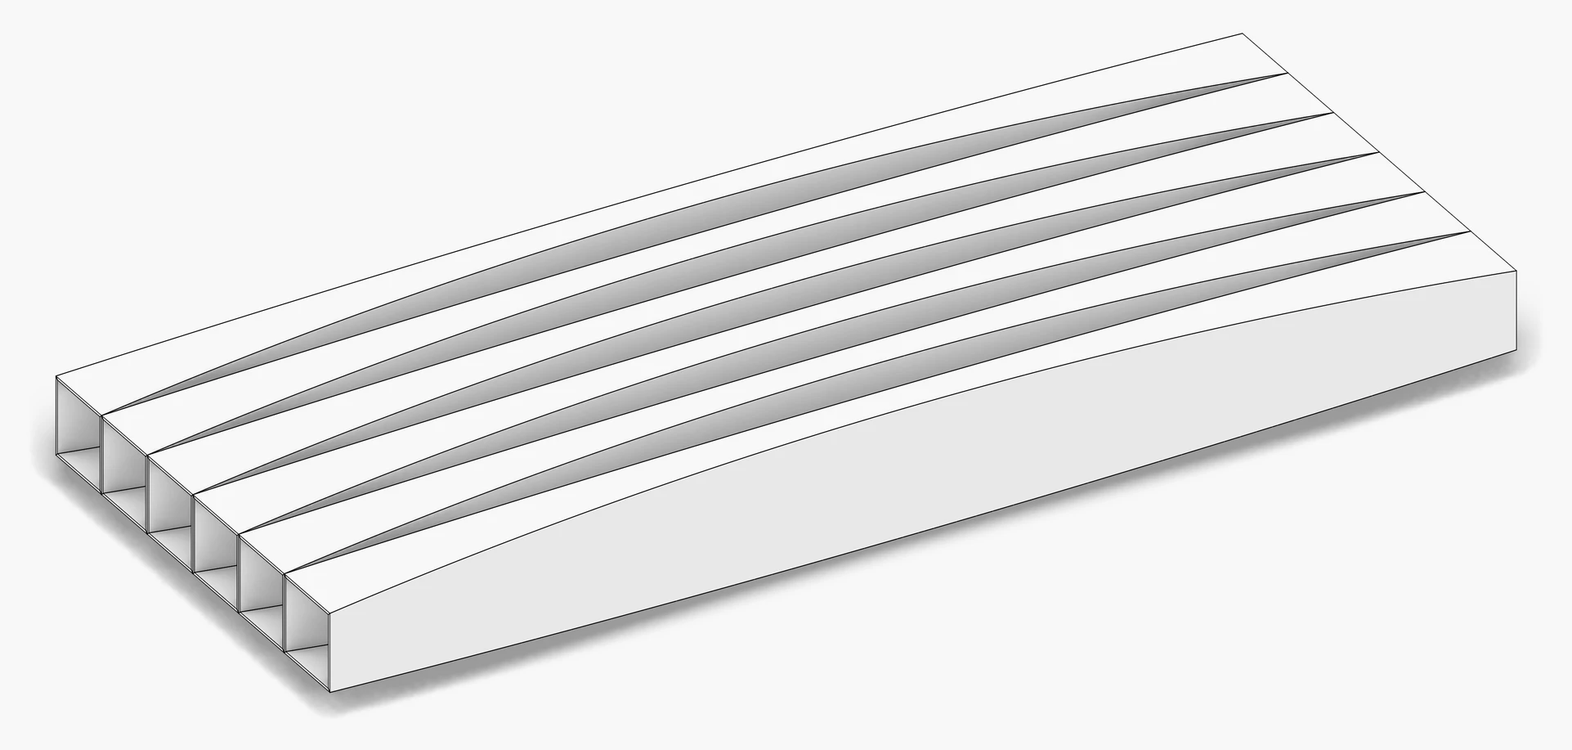
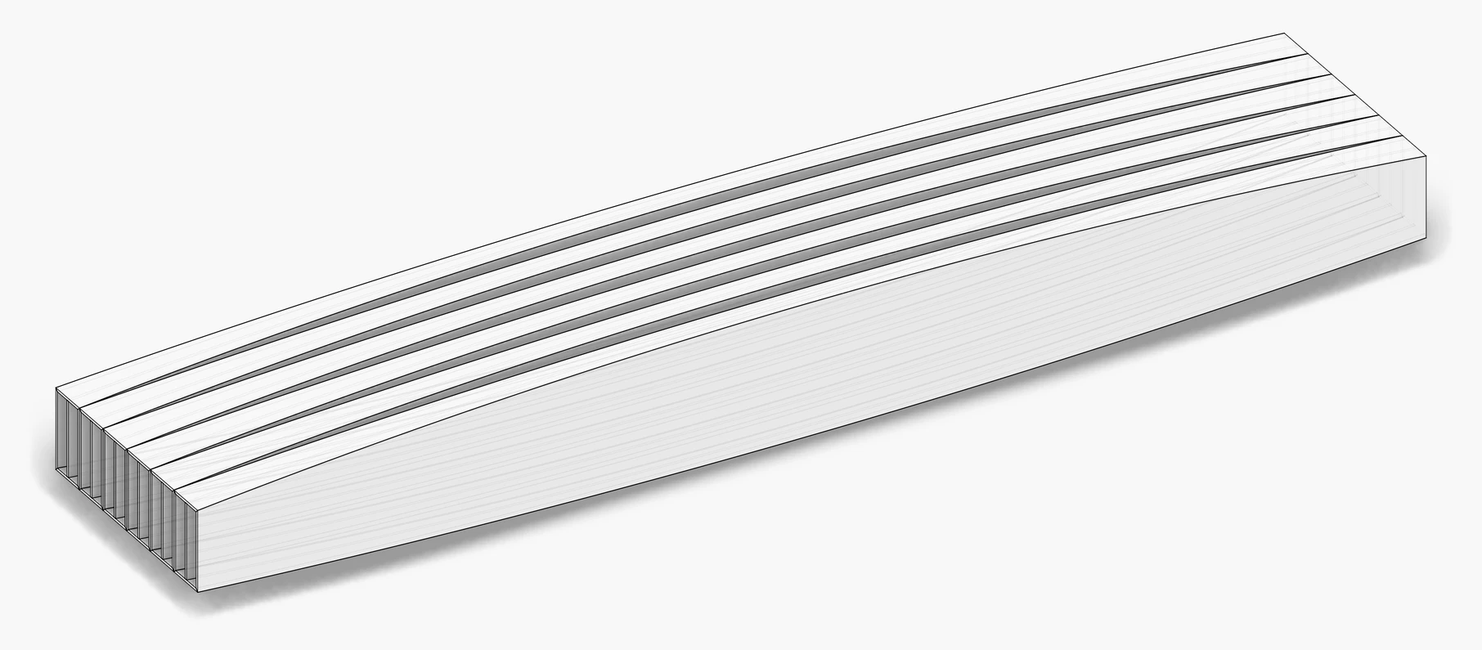
wood: curved-folded beam twice as high as wide at the supports with webs inside, the curved contact detection finding a face lying wholly inside another (a web's edge on its plate); picture at 0.95 opacity; the templates page with two folding categories, Folding flat and Folding curved

Changed region(s): [[0.0, 0.0604, 0.989, 0.966], [0.8653, 0.0604, 0.8962, 0.0906]]

diff --git a/src/templates/curved_folding/curved_folded_beam.h b/src/templates/curved_folding/curved_folded_beam.h
@@ -5,31 +5,33 @@
 using namespace session_cpp;
 using namespace wood_session;
 
-/// A closed curved-folded beam of four plates: a box spanning along x, square at the supports, its four plates each a cylinder bent along the span with its rulings straight across. The
-/// two pairs fold opposite ways: the top and bottom plates bulge outward by rise toward mid-span, the side plates sag inward by sag, so
-/// the beam deepens and narrows to mid-span. The corners are the curved creases where a top or bottom plate meets a side plate, and
-/// every plate is mitred there: its inner face ends where it meets its neighbour's, both a thickness inside, and the mitre is the
-/// ruled face between the crease and that inner crease, one face shared by the two plates. The ends are cut square at the supports. A
-/// row of beams side by side along y, touching at the supports, leaves lens-shaped gaps between them, widest at mid-span.
+/// A closed curved-folded beam: a box spanning along x, at the supports twice as high as wide, its four plates each a cylinder bent
+/// along the span with its rulings straight across. The top and bottom plates bulge outward by rise toward mid-span, the side plates
+/// sag inward by sag, so the beam deepens and narrows to mid-span. The corners are the curved creases, every plate mitred there: its
+/// inner face ends where it meets its neighbour's, both a thickness inside, the mitre the ruled face between the crease and that inner
+/// crease, shared by the two plates. Flat vertical webs inside divide the section, each between the inner faces of the top and bottom
+/// plates. The ends are cut square at the supports; beams side by side touch there.
 ///
-/// Fields: the span, the size, the rise, the sag, the thickness, the count and the sampling; the plates are in the session.
+/// Fields: the span, the width, the rise, the sag, the thickness, the webs, the count and the sampling; the plates are in the session.
 class CurvedFoldedBeam : public WoodSession {
 public:
     const double span; // mm, along x between the supports.
-    const double size; // mm, half the side of the square section at the supports.
+    const double width; // mm, the section's width at the supports, its height twice that.
     const double rise; // mm, how far the top and bottom plates bulge outward at mid-span.
     const double sag; // mm, how far the side plates sag inward at mid-span.
-    const double thickness; // mm, every plate.
-    const size_t count; // Beams side by side along y, 2 size apart.
+    const double thickness; // mm, every plate and web.
+    const size_t webs; // Flat webs inside every beam, evenly across its width.
+    const size_t count; // Beams side by side along y, width apart.
     const size_t samples; // Rulings each plate is interpolated through.
 
     /// count curved-folded beams as the session named name.
     CurvedFoldedBeam(
         double span = 12000.0,
-        double size = 400.0,
+        double width = 400.0,
         double rise = 250.0,
-        double sag = 220.0,
+        double sag = 80.0,
         double thickness = 27.0,
+        size_t webs = 1,
         size_t count = 6,
         const std::string& name = "curved_folded_beam",
         size_t samples = 48
@@ -54,71 +56,76 @@ private:
     std::array<std::vector<Point>, 2> compute_corner() const;
 
     /// Every beam's four plates, beam_<b>_<k> in the group beam_<b>: top, right, bottom and left, each between two corners, the corner
-    /// mirrored in the planes y 0 and z 0, and moved along y.
+    /// mirrored in the planes y 0 and z 0, and moved along y; then its webs, beam_<b>_<4 + w>.
     void add_beams(const std::array<std::vector<Point>, 2>& corner);
 };
 
-inline CurvedFoldedBeam::CurvedFoldedBeam(double span, double size, double rise, double sag, double thickness, size_t count, const std::string& name, size_t samples)
+inline CurvedFoldedBeam::CurvedFoldedBeam(double span, double width, double rise, double sag, double thickness, size_t webs, size_t count, const std::string& name, size_t samples)
     : WoodSession(name),
       span(span),
-      size(size),
+      width(width),
       rise(rise),
       sag(sag),
       thickness(thickness),
+      webs(webs),
       count(std::max<size_t>(count, 1)),
       samples(std::max<size_t>(samples, 4)) {
 
-    if (span <= 0.0 || size <= 0.0 || rise <= 0.0 || sag <= 0.0 || sag >= size - 2.0 * thickness || thickness <= 0.0)
-        throw std::invalid_argument("A curved-folded beam needs a span, a size, a rise, a sag well inside the size and a thickness");
+    // the outermost web, half a thickness wide, stands clear of the sides' inner faces where they sag the most
+    const double clear = 0.5 * width - sag - 1.5 * thickness;
+    const double outermost = std::abs(-0.5 * width + width / static_cast<double>(webs + 1));
+
+    if (span <= 0.0 || width <= 0.0 || rise <= 0.0 || sag <= 0.0 || thickness <= 0.0 || sag >= 0.5 * width - 2.0 * thickness || (webs > 0 && outermost >= clear))
+        throw std::invalid_argument("A curved-folded beam needs a span, a width, a rise, a sag and a thickness that leave its webs inside");
 
     // corner: the top right crease and the inner crease under it, the mitre between them
     const std::array<std::vector<Point>, 2> corner = compute_corner();
 
-    // beams: every beam's four plates between its four corners, each a cylinder with its rulings straight across
+    // beams: every beam's four plates between its four corners, each a cylinder with its rulings straight across, and its webs
     add_beams(corner);
 
-    // contacts: every two plates that share a face, the four mitres of every beam, found by the session's contact detection
+    // contacts: every two plates that share a face, found by the session's contact detection
     compute_face_contacts(0);
 }
 
 inline std::array<std::vector<Point>, 2> CurvedFoldedBeam::compute_corner() const {
 
-    // a profile along the span: a circular arc through size at the supports and size + change at mid-span, its value and slope at x
+    // a profile along the span: a circular arc through base at the supports and base + change at mid-span, its value and slope at x
     const double half = 0.5 * span;
-    const std::function<std::pair<double, double>(double, double)> profile = [&](double change, double x) {
+    const std::function<std::pair<double, double>(double, double, double)> profile = [&](double base, double change, double x) {
         const double radius = (half * half + change * change) / (2.0 * std::abs(change));
         const double root = std::sqrt(radius * radius - x * x);
         const double sign = change > 0.0 ? 1.0 : -1.0;
-        return std::make_pair(size + change - sign * radius + sign * root, -sign * x / root);
+        return std::make_pair(base + change - sign * radius + sign * root, -sign * x / root);
     };
 
     // the point a thickness inside a profile at the arc's parameter u: its x, and its distance from the axis
-    const std::function<std::pair<double, double>(double, double)> inside = [&](double change, double u) {
-        const std::pair<double, double> value = profile(change, u);
+    const std::function<std::pair<double, double>(double, double, double)> inside = [&](double base, double change, double u) {
+        const std::pair<double, double> value = profile(base, change, u);
         const double length = std::sqrt(1.0 + value.second * value.second);
         return std::make_pair(u + thickness * value.second / length, value.first - thickness / length);
     };
 
     // the inner profile's distance from the axis at x: the arc's parameter whose inner point lies at x, by bisection
-    const std::function<double(double, double)> inner = [&](double change, double x) {
+    const std::function<double(double, double, double)> inner = [&](double base, double change, double x) {
         double low = x - 2.0 * thickness;
         double high = x + 2.0 * thickness;
 
         for (int i = 0; i < 80; i++) {
             const double middle = 0.5 * (low + high);
-            (inside(change, middle).first < x ? low : high) = middle;
+            (inside(base, change, middle).first < x ? low : high) = middle;
         }
 
-        return inside(change, 0.5 * (low + high)).second;
+        return inside(base, change, 0.5 * (low + high)).second;
     };
 
-    // the crease at the top and right profiles' heights, the inner crease at their inner faces', at equal x
+    // the crease at the side's half width and the top's half height, the inner crease at their inner faces', at equal x
     std::array<std::vector<Point>, 2> corner;
 
     for (size_t k = 0; k <= samples; k++) {
         const double x = -half + span * static_cast<double>(k) / static_cast<double>(samples);
-        corner[0].push_back(Point(x, profile(-sag, x).first, profile(rise, x).first));
-        corner[1].push_back(Point(x, inner(-sag, x), inner(rise, x)));
+        corner[0].push_back(Point(x, profile(0.5 * width, -sag, x).first, profile(width, rise, x).first));
+        corner[1].push_back(Point(x, inner(0.5 * width, -sag, x), inner(width, rise, x)));
     }
 
     return corner;
@@ -132,7 +139,7 @@ inline void CurvedFoldedBeam::add_beams(const std::array<std::vector<Point>, 2>&
 
     for (size_t b = 0; b < count; b++) {
         const std::shared_ptr<TreeNode> group = add_group(fmt::format("beam_{}", b));
-        const double shift = 2.0 * size * static_cast<double>(b);
+        const double shift = width * static_cast<double>(b);
 
         for (size_t k = 0; k < 4; k++) {
             // outer_a, outer_b, inner_a, inner_b: the plate's two corners, the crease then the inner crease of each
@@ -153,6 +160,25 @@ inline void CurvedFoldedBeam::add_beams(const std::array<std::vector<Point>, 2>&
             // its development, the proof it is cut flat
             const Development development(curves[0], curves[1], samples);
             _distortion = std::max(_distortion, development.distortion);
+        }
+
+        // the webs: flat plates at even steps across the width, from the top plate's inner face down to the bottom plate's
+        for (size_t w = 0; w < webs; w++) {
+            const double y = shift - 0.5 * width + width * static_cast<double>(w + 1) / static_cast<double>(webs + 1);
+            std::array<NurbsCurve, 4> curves;
+
+            for (size_t e = 0; e < 4; e++) {
+                const double face = y + (e < 2 ? -0.5 : 0.5) * thickness;
+                const double side = e % 2 == 0 ? 1.0 : -1.0;
+                std::vector<Point> points;
+
+                for (const Point& point : corner[1])
+                    points.push_back(Point(point[0], face, side * point[2]));
+
+                curves[e] = NurbsCurve::create_interpolated(points, CurveNurbsKnotStyle::Uniform);
+            }
+
+            add(std::make_shared<PlateCurved>(curves[0], curves[1], curves[2], curves[3], fmt::format("beam_{}_{}", b, 4 + w)), group);
         }
     }
 }

diff --git a/src/joinery_solver/wood_algorithms/wood_contact_detection.cpp b/src/joinery_solver/wood_algorithms/wood_contact_detection.cpp
@@ -7,6 +7,7 @@
 #include "wood_element_geometry.h"
 #include "wood_element_plate_curved.h"
 #include "../src/clipper2/clipper.h"
+#include "closest.h"
 using namespace session_cpp;
 using namespace wood_session;
 
@@ -67,10 +68,53 @@ std::vector<bool> boundary_on(const std::vector<Point>& points, const std::vecto
     return on;
 }
 
+/// A face as the strip of triangles between its two sampled boundaries.
+Mesh face_strip(const std::array<std::vector<Point>, 2>& face) {
+
+    const size_t n = face[0].size();
+    std::vector<Point> vertices = face[0];
+    vertices.insert(vertices.end(), face[1].begin(), face[1].end());
+    std::vector<std::vector<size_t>> triangles;
+
+    for (size_t k = 0; k + 1 < n; k++) {
+        triangles.push_back({k, k + 1, n + k + 1});
+        triangles.push_back({k, n + k + 1, n + k});
+    }
+
+    return Mesh::from_vertices_and_faces(vertices, triangles);
+}
+
+/// Whether every point of a face's two boundaries lies within tolerance of another face's strip: a face lying inside the other, as a
+/// web's edge on the plate it stands on.
+bool face_within(const std::array<std::vector<Point>, 2>& face, const std::array<std::vector<Point>, 2>& other, double tolerance) {
+
+    if (face[0].size() < 3 || other[0].size() < 3)
+        return false;
+
+    // cheap first: the face inside the other's box, grown by the tolerance
+    std::vector<Point> corners = other[0];
+    corners.insert(corners.end(), other[1].begin(), other[1].end());
+    const AABB box = AABB::from_points(corners, tolerance);
+
+    for (const std::vector<Point>& boundary : face)
+        for (const Point& point : boundary)
+            if (std::abs(point[0] - box.cx) > box.hx || std::abs(point[1] - box.cy) > box.hy || std::abs(point[2] - box.cz) > box.hz)
+                return false;
+
+    const Mesh strip = face_strip(other);
+
+    for (const std::vector<Point>& boundary : face)
+        for (const Point& point : boundary)
+            if (std::get<2>(Closest::mesh_point(strip, point)) > tolerance)
+                return false;
+
+    return true;
+}
+
 /// The faces two curved plates share: where both boundaries of a face of one lie on the two boundaries of a face of the other, in
 /// either order, along the longest run of samples, at least four and longer than ten tolerances, the whole face or the part of it
-/// one neighbour shares; the contact's polygon is that run of the first boundary and the second walked back. Outer and inner faces
-/// are tops, the rest sides.
+/// one neighbour shares; the contact's polygon is that run of the first boundary and the second walked back. A face lying wholly
+/// inside a face of the other is shared too, its whole outline the polygon. Outer and inner faces are tops, the rest sides.
 std::vector<InteractionContactFace> curved_contacts(const PlateCurved& a, const PlateCurved& b, double tolerance) {
 
     const std::array<std::array<std::vector<Point>, 2>, 6> faces_a = curved_faces(a, 64);
@@ -78,7 +122,9 @@ std::vector<InteractionContactFace> curved_contacts(const PlateCurved& a, const 
     std::vector<InteractionContactFace> contacts;
 
     for (size_t i = 0; i < 6; i++)
-        for (size_t j = 0; j < 6; j++)
+        for (size_t j = 0; j < 6; j++) {
+            const size_t found = contacts.size();
+
             for (size_t order = 0; order < 2; order++) {
                 // the samples where both boundaries lie on the other face's, and the longest run of them
                 const std::vector<bool> first = boundary_on(faces_a[i][0], faces_b[j][order], tolerance);
@@ -117,6 +163,25 @@ std::vector<InteractionContactFace> curved_contacts(const PlateCurved& a, const 
                 contacts.emplace_back(static_cast<int>(i), static_cast<int>(j), type, Polyline(polygon));
                 break;
             }
+
+            // a face lying wholly inside the other's: a web's edge on its plate's inner face, either way round
+            if (contacts.size() > found)
+                continue;
+
+            const bool a_within = face_within(faces_a[i], faces_b[j], tolerance);
+
+            if (!a_within && !face_within(faces_b[j], faces_a[i], tolerance))
+                continue;
+
+            const std::array<std::vector<Point>, 2>& face = a_within ? faces_a[i] : faces_b[j];
+            std::vector<Point> polygon = face[0];
+            polygon.insert(polygon.end(), face[1].rbegin(), face[1].rend());
+            polygon.push_back(polygon.front());
+            const bool top_a = i < 2;
+            const bool top_b = j < 2;
+            const ContactType type = top_a && top_b ? ContactType::top_top : top_a || top_b ? ContactType::side_top : ContactType::side_side;
+            contacts.emplace_back(static_cast<int>(i), static_cast<int>(j), type, Polyline(polygon));
+        }
 
     return contacts;
 }

diff --git a/examples/templates_curved_folding_31_curved_folded_beam.cpp b/examples/templates_curved_folding_31_curved_folded_beam.cpp
@@ -4,8 +4,8 @@
 using namespace session_cpp;
 using namespace wood_session;
 
-/// Six closed curved-folded beams side by side: boxes of four cylinder plates spanning 12 m, the top and bottom bulging out and the
-/// sides sagging in toward mid-span.
+/// Six closed curved-folded beams side by side: boxes 400 wide and 800 high at the supports, the top and bottom bulging out, the
+/// sides sagging in, a web inside.
 int main() {
 
     CurvedFoldedBeam beams;
@@ -24,7 +24,7 @@ int main() {
 
 /*
 |||||||| DESCRIPTION ||||||||
-Step 31 of the curved folding templates: a closed curved-folded beam of four plates. A box spans 12 m along x, 800 mm square at the supports; each of its four plates is a cylinder bent along the span with its rulings straight across, and the two pairs fold opposite ways: the top and bottom plates bulge 250 mm outward toward mid-span, the sides sag 220 mm inward, so the beam is 1300 mm deep and 360 mm wide at mid-span. The corners are the curved creases; every plate is mitred there, its inner face ending where it meets its neighbour's a thickness inside both, the mitre the ruled face between the crease and that inner crease. The ends are cut square at the supports. Six beams 27 mm thick lie side by side, touching at the supports, lens-shaped gaps opening between them toward mid-span; the session's contact detection finds the four mitres of every beam. Groups: beam_<b> (beam_<b>_<k>).
+Step 31 of the curved folding templates: a closed curved-folded beam. A box spans 12 m along x, 400 mm wide and 800 mm high at the supports; its four plates are cylinders bent along the span with their rulings straight across: the top and bottom bulge 250 mm outward toward mid-span, the sides sag 80 mm inward, so the beam is 1300 mm deep and 240 mm wide at mid-span. Every corner is a curved crease, the two plates mitred on the ruled face between the crease and the inner crease. A flat web inside, between the inner faces of the top and bottom, divides the section. Six beams of 27 mm plates side by side; the contacts are the four mitres and the web's two edges of every beam. Groups: beam_<b>.
 
 |||||||| DIRECTORY ||||||||
 cd wood_research/wood

diff --git a/docs/templates.md b/docs/templates.md
@@ -7,24 +7,9 @@ Generators under `src/templates/`, one folder per family (`shells/`, `folding/`,
 | Template | Header | Example | Elements |
 | --- | --- | --- | --- |
 | [Translation shell](@ref templates_shells) | `shells/translation_shell.h` | `templates_shells_1_translation_shell` | `TranslationShell`: one mitered, chamfered plate per swept quad |
-| [Reflex fold](@ref templates_folding) | `folding/reflex_fold.h` | `templates_folding_1_reflex_fold` | one plate per fold |
+| [Folding flat](@ref templates_folding) | `folding/*.h` | `templates_folding_*` | planar plates folded along straight creases: reflex, diamond, prismatic, counter-running, conical, single, diagonal and triangle folds, folded frames and truncated pyramids, every plate offset exactly with flush mitres |
+| [Folding curved](@ref templates_curved_folding) | `curved_folding/*.h` | `templates_curved_folding_*` | curved plates bent from flat panels and folded along planar curved creases: reflection folds, cylinder vaults, curved-crease unfoldings and the curved-folded beam, every plate an exact developable `PlateCurved` |
 | [Chevron](@ref templates_chevron) | `chevron/chevron.h` | `templates_chevron_1_chevron` | four plates per face of an Annen surface |
-| [Diamond mesh](@ref templates_folding) | `folding/diamond_mesh.h` | `templates_folding_2_diamond_mesh` | one plate per triangle of a rhombus pattern |
-| [Singly folded plate](@ref templates_folding) | `folding/prismatic_fold.h` | `templates_folding_{3_prismatic_fold,4_folded_barrel,25_one_fold,26_three_folds}` | a fold profile carried straight over the span, one plate per fold, diaphragms under the folds and a flange folded on at each free edge; a zigzag, one and three folds, and a folded barrel approaching a cylindrical shell |
-| [Counter-running fold](@ref templates_folding) | `folding/counter_fold.h` | `templates_folding_{5_counter_fold,6_elevated_fold,27_counter_centre,..,32_deep_centre_valley}` | fold profiles at stations along the span, counter-running, raised or deepened, every warped strip folded into two planar triangles, ridge to ridge, ridge to valley or alternate |
-| [Conical fold](@ref templates_folding) | `folding/conical_fold.h` | `templates_folding_7_conical_fold` | a continuous fold profile with its upper edge cut by sloping planes, flank pentagons and cut triangles |
-| [Folded frame](@ref templates_folding) | `folding/folded_frame.h` | `templates_folding_{8_two_hinged_frame,9_three_hinged_frame,10_three_hinged_arch,34_a_frame,35_pointed_arch}` | a frame or arch of triangular plates, a zigzag fold line per half bay between the valleys at the bay edge and the ridges at its centre |
-| [Single fold](@ref templates_folding) | `folding/single_fold.h` | `templates_folding_{11_triangle_fold,12_square_fold,13_hexagon_fold}` | singly folded surfaces over a polygon plan, every sector two triangles on its ridge, eave triangles leaning out, vertical or leaning in |
-| [Truncated pyramid](@ref templates_folding) | `folding/truncated_pyramid.h` | `templates_folding_{14_pyramid,15_truncated_pyramid,36_folded_truncated_pyramid,38_truncated_pyramid_corner_folds,39_truncated_pyramid_corner_edge_folds}` | Engel pp. 231, 233: the pyramid, the doubly folded truncated pyramid and its three variations folded around edge and corner points |
-| [Diagonal fold](@ref templates_folding) | `folding/diagonal_fold.h` | `templates_folding_{16_cross_fold,17_cross_fold_rising,18_cross_fold_sloping}` | cross-folded surfaces spanned diagonally over a square, the ridges folded upwardly, rising or sloping toward the centre |
-| [Fold composition](@ref templates_folding) | `folding/fold_composition.h` | `templates_folding_19_fold_composition` | a chessboard field of cells folded crosswise carrying one cross fold spanned diagonally over its middle block |
-| [Triangle fold](@ref templates_folding) | `folding/triangle_fold.h` | `templates_folding_{20_triangle_square,..,23_triangle_hexagon}` | folded triangular surfaces over square, triangular, pentagonal and hexagonal plans |
-| [Curved fold](@ref templates_curved_folding) | `curved_folding/curved_fold.h` | `templates_curved_folding_1_curved_fold` | the curved folded tent roof of Knie's Zauberhut: twelve folds on a 32 m roof rising into a 26 m tower, every fold strip one lamella, a PlateCurved solid of exact NURBS patches |
-| [Reflection fold](@ref templates_curved_folding) | `curved_folding/reflection_fold.h` | `templates_curved_folding_{2_reflection,3_curved_folded_plate,4_mendrisio_pavilion,13_two_hinged_frame,15_two_hinged_arch,16_arch_with_top_hinge,17_a_frame}` | a cylinder sheet folded at planar creases by the reflection (the sheet turned over, one development) or the mirror fold (the bulge kept), the thickness on one side through every fold and every seam one shared mitre; the IBOIS reflection principle, their curved folded plate and Mendrisio pavilion (IBOIS), folded cylindrical frames, arches, A-frame and cantilever |
-| [Cylinder vault](@ref templates_curved_folding) | `curved_folding/cylinder_vault.h` | `templates_curved_folding_{5_groin_vault,8_pavilion_vault,9_pentagon_vault,10_octagon_vault,11_hexagon_vault}` | equal cylinders over a regular polygon, level groin vaults and the pavilion vault on walls, every segment one PlateCurved panel |
-| [Curved-crease unfolding](@ref templates_curved_folding) | `curved_folding/curved_crease_unfolding.h` | `templates_curved_folding_{20_curved_crease_unfolding,21_catenary_unfolding,23_synclastic_unfolding,..,30_corrugated_funnel}` | flat plates with curved edges, stacked and hinged on those edges, open like an accordion into a corrugated vault, the cut edge's curvature over cos of the opening becoming the profile; on parallel planes, on inclined planes (synclastic and anticlastic vaults, vaults articulated at the apex, the supports or the sides), a corrugated dome and a funnel column; every plate mitred on its crease planes |
-| [Crease quadrants](@ref templates_curved_folding) | `curved_folding/crease_quadrants.h` | `templates_curved_folding_22_crease_quadrants` | the four ways two strips join on one planar curved crease: folded from one sheet (Q1, Q3) or unfolded from two mirror sheets, synclastic (Q2) or anticlastic (Q4) |
-| [Curved-folded beam](@ref templates_curved_folding) | `curved_folding/curved_folded_beam.h` | `templates_curved_folding_31_curved_folded_beam` | a closed box of four curved plates spanning between supports, the top and bottom bulging out and the sides sagging in toward mid-span, every corner a mitred curved crease |
 | [VDA mesh](@ref templates_cross) | `cross/vda_mesh.h` | `templates_cross_1_vda_mesh` | one plate per face plus connector plates across every interior edge |
 | [Wall module](@ref templates_module) | `module/wall.h` | `templates_module_1_wall` | `Wall`: rails, studs, jamb studs, headers, sills and cripples as beams of one section, the studs on a 625 mm grid and jamb studs at every opening, one sheathing plate on each face with the openings cut out, a face contact between every member and panel that touch |
 | [Cassette shell](@ref templates_module) | `module/cassette_shell.h` | `templates_module_2_cassette_shell` | `CassetteShell`: per mesh face a hollow cassette, two thin plates and mitered edge beams cut on the bevel the cell shares with its neighbour, the contacts between cassettes detected |

diff --git a/docs/templates/curved_folding.md b/docs/templates/curved_folding.md
@@ -1,4 +1,4 @@
-# Curved folding {#templates_curved_folding}
+# Folding curved {#templates_curved_folding}
 
 [TOC]
 
@@ -11,7 +11,7 @@ Folded structures whose creases are curves: every lamella is a curved plate, a [
 | [`CylinderVault`](#cylinder_vault) | `curved_folding/cylinder_vault.h` | equal cylinders over a regular polygon meeting on planar creases | `templates_curved_folding_{5_groin_vault,8_pavilion_vault,9_pentagon_vault,10_octagon_vault,11_hexagon_vault}` |
 | [`CurvedCreaseUnfolding`](#curved_crease_unfolding) | `curved_folding/curved_crease_unfolding.h` | flat plates with curved edges hinged into a corrugated vault | `templates_curved_folding_{20_curved_crease_unfolding,21_catenary_unfolding,23_synclastic_unfolding,..,30_corrugated_funnel}` |
 | [`CreaseQuadrants`](#crease_quadrants) | `curved_folding/crease_quadrants.h` | the four ways two strips join on one planar curved crease | `templates_curved_folding_22_crease_quadrants` |
-| [`CurvedFoldedBeam`](#curved_folded_beam) | `curved_folding/curved_folded_beam.h` | a closed box of four curved plates, the top and bottom bulging out, the sides sagging in | `templates_curved_folding_31_curved_folded_beam` |
+| [`CurvedFoldedBeam`](#curved_folded_beam) | `curved_folding/curved_folded_beam.h` | a closed box of four curved plates, twice as high as wide at the supports, the top and bottom bulging out, the sides sagging in, webs inside | `templates_curved_folding_31_curved_folded_beam` |
 | [`Development`](#development) | `curved_folding/development.h` | the unfolding of a ruled strip, the check that every lamella is cut flat | every example prints it |
 
 Every example prints the number of lamellas or panels, how many are closed solids, how many contacts the session's contact detection finds between them, and the development distortion and ruling twist of the worst one; on every model below the distortion is at the rounding floor (1e-14), the lamellas being exact cylinders. The contacts are the seams: every two lamellas that share a face are found, so the count below each example is the proof that its mitres meet, creases times lamellas per crease plus the joints between neighbouring barrels of a row.
@@ -562,9 +562,9 @@ CreaseQuadrants quadrants(Primitives::arc(Point(-2000.0, 0.0, 0.0), Point(0.0, 0
 
 ## Curved-folded beam {#curved_folded_beam}
 
-`CurvedFoldedBeam(span, size, rise, sag, thickness, count)` (`curved_folding/curved_folded_beam.h`): a closed box spanning along x, square at the supports, of four plates, each a cylinder bent along the span with its rulings straight across. The two pairs fold opposite ways: the top and bottom plates bulge outward by `rise` toward mid-span, the sides sag inward by `sag`, so the beam deepens and narrows to mid-span. The four corners are the curved creases; every plate is mitred there, its inner face ending where it meets its neighbour's a thickness inside both, the mitre the ruled face between the crease and that inner crease, one face shared by the two plates. The ends are cut square at the supports. Beams side by side touch at the supports and leave lens-shaped gaps between them, widest at mid-span.
+`CurvedFoldedBeam(span, width, rise, sag, thickness, webs, count)` (`curved_folding/curved_folded_beam.h`): a closed box spanning along x, `width` wide and twice as high at the supports, of four cylinder plates with their rulings straight across. The top and bottom bulge outward by `rise` toward mid-span, the sides sag inward by `sag`. Every corner is a curved crease, the two plates mitred on the ruled face between the crease and the inner crease. `webs` flat webs inside divide the section, each between the inner faces of the top and bottom plates.
 
-Six beams 12 m long, 800 mm square at the supports, 1300 mm deep and 360 mm wide at mid-span, 27 mm plates; 24 plates, 24 closed solids, 24 contacts, development distortion 1.5e-15 (example `templates_curved_folding_31_curved_folded_beam`).
+Six beams 12 m long, 400 by 800 mm at the supports, 240 by 1300 mm at mid-span, 27 mm plates and one web each: 30 plates, 36 contacts, the mitres and the webs' edges (example `templates_curved_folding_31_curved_folded_beam`).
 
 ![curved-folded beam](templates/templates_curved_folding_31_curved_folded_beam_all.webp)
 

diff --git a/docs/templates/folding.md b/docs/templates/folding.md
@@ -1,4 +1,4 @@
-# Folding {#templates_folding}
+# Folding flat {#templates_folding}
 
 [TOC]
 
